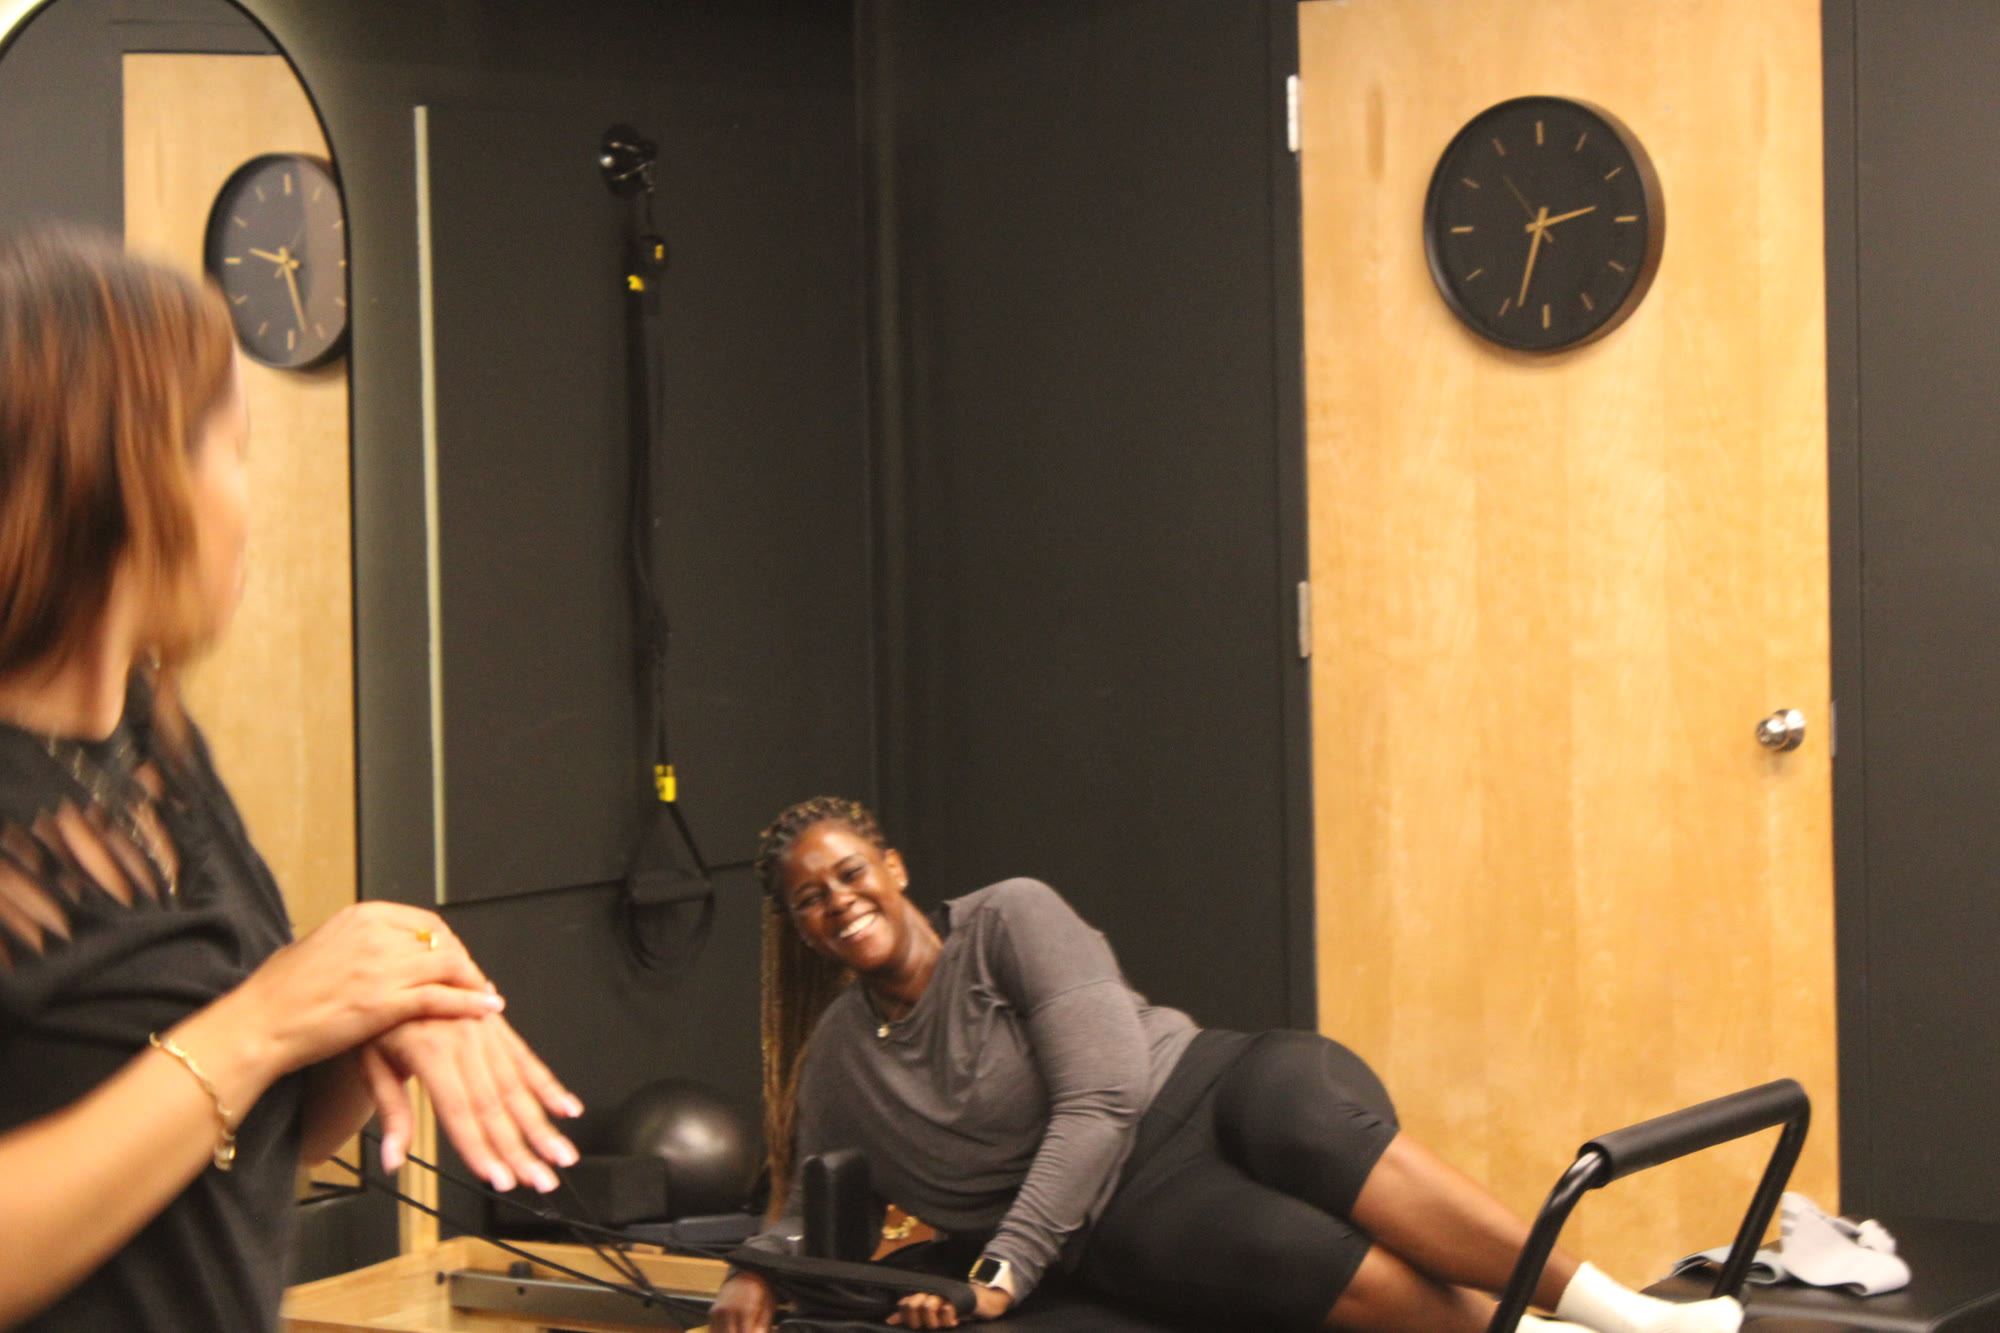
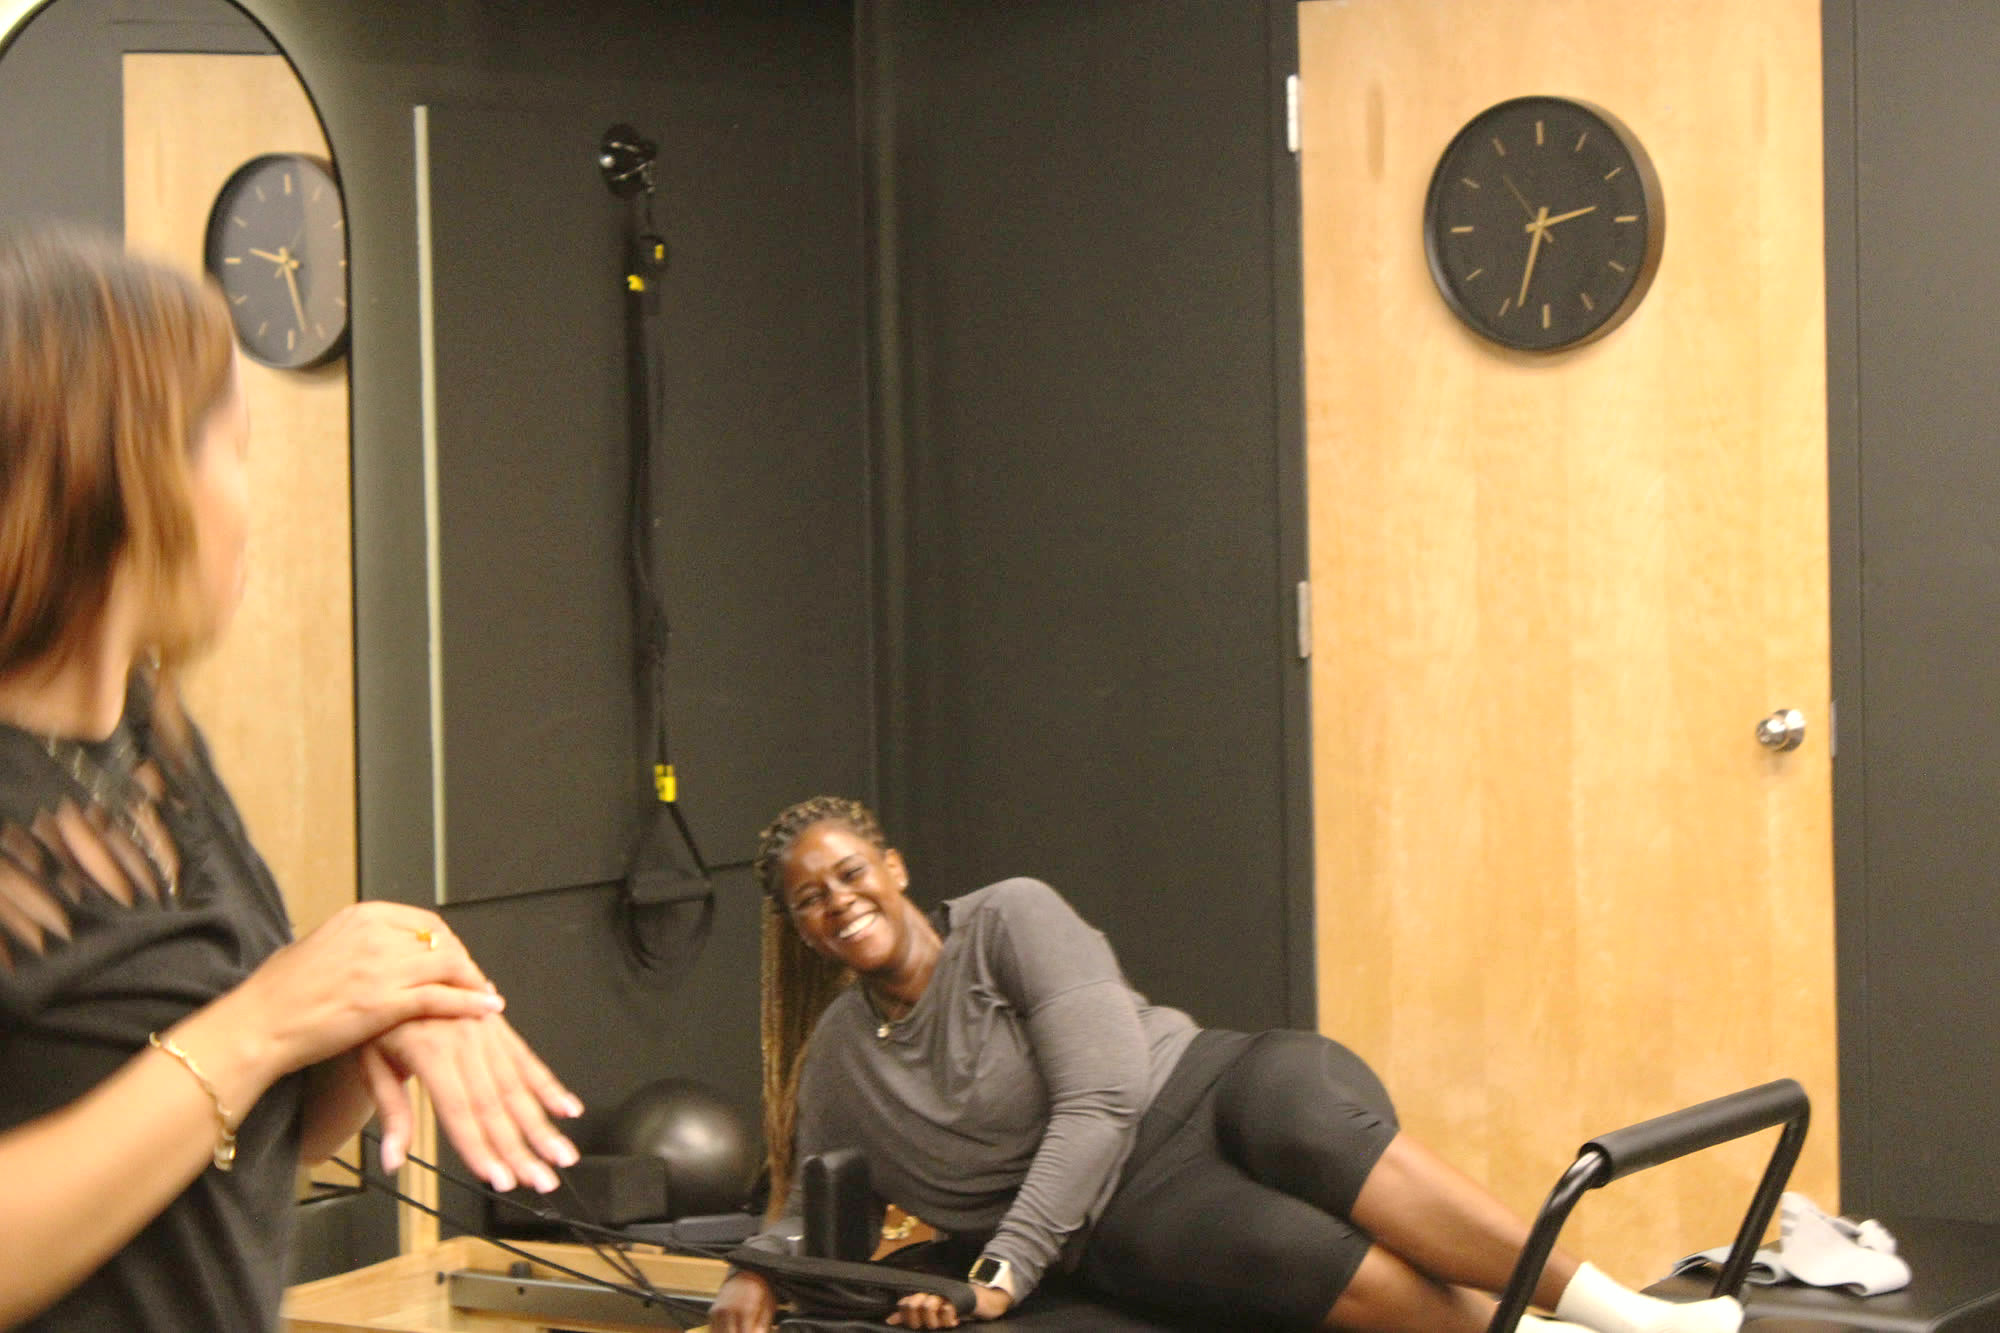
Curate the 9/13 gallery: remove seven, enhance eight, add thirteen (#389)
* Curate the 9/13 gallery: remove seven, enhance eight, add thirteen (32 total)

Removed by gallery position: 2, 6, 7, 10, 17, 18 and 22 — the second
full-lineup group shot, chest press with feet in straps, the
over-the-shoulder frame, side-lying leg work, sitting and talking,
stretching after class, and Niara with her arms out.

Enhanced positions 4, 5, 11, 12, 13, 15 and 16. Every frame was shot
against the studio's black walls and metered dark — average luma ran 84
to 107 where mid-grey is 128, and position 14 was 41. A shadow-lifting
curve with light contrast, saturation and unsharp brings them to 102
to 126 without clipping the highlights.

Position 4 is cropped to the group and the reformer, dropping the bare
wall and mic stand at the right. Position 14 is cropped to the
reformer, dropping the snack bag and the towels.

Thirteen new photos come in as riddim-27 through riddim-39, carrying
the same enhancement so the gallery reads as one set rather than half
corrected. riddim-02 is replaced by the DSLR frame of that same group.

Three uploads were not added: IMG_4073 repeats the group already in
riddim-03, IMG_4064 repeats the lunge in riddim-22, and IMG_4089 and
image-1789411850632 were already in as riddim-26 and riddim-04.

Claude-Session: https://claude.ai/code/session_01C5C3S2hPFNYWpceXrqPaqV

* Restore the Mat & Chat photos a wildcard delete caught

Clearing the raw 9/13 uploads with IMG_*.JPG also removed the 29 files
[…]

diff --git a/index.html b/index.html
@@ -7459,31 +7459,37 @@ document.addEventListener('DOMContentLoaded', function() {
       cover:  'riddim-01.jpg',   // the largest group of the day
       photos: [
         'riddim-01.jpg',  //  1. Full group with the Haiti/Jamaica flag (COVER)
-        'riddim-21.jpg',  //  2. The same group with everyone in the shot
-        'riddim-02.jpg',  //  3. Session group with the flag
-        'riddim-03.jpg',  //  4. Session group with the flag
-        'riddim-04.jpg',  //  5. Chest press on the reformers, Valley Studio logo behind
-        'riddim-05.jpg',  //  6. Chest press, feet in straps
-        'riddim-06.jpg',  //  7. Over the shoulder mid-set, Auric MVMT tee
-        'riddim-18.jpg',  //  8. Abs on the reformer
-        'riddim-26.jpg',  //  9. Banded leg work, feet in the air
-        'riddim-20.jpg',  // 10. Side-lying leg work, Valley Studio logo behind
-        'riddim-07.jpg',  // 11. Bar and leg work, close
-        'riddim-08.jpg',  // 12. Bar work across the room
-        'riddim-22.jpg',  // 13. Lunge on the reformer with the ball
-        'riddim-25.jpg',  // 14. Kneeling stretch
-        'riddim-23.jpg',  // 15. The room mid-class
-        'riddim-19.jpg',  // 16. Caught laughing mid-class
-        'riddim-09.jpg',  // 17. Sitting and talking between sets
-        'riddim-10.jpg',  // 18. Stretching it out after class
-        'riddim-11.jpg',  // 19. The prize-drawing winner with her card
-        'riddim-24.jpg',  // 20. Celebrating the winner
-        'riddim-12.jpg',  // 21. By the AURIC MVMT neon
-        'riddim-13.jpg',  // 22. Niara in the studio
-        'riddim-14.jpg',  // 23. Niara between sessions
-        'riddim-15.jpg',  // 24. The Auric goodie bag
-        'riddim-16.jpg',  // 25. Island Fusion juices
-        'riddim-17.jpg'   // 26. The welcome table and feedback QR
+        'riddim-02.jpg',  //  2. Session group with the flag
+        'riddim-03.jpg',  //  3. Session group with the flag
+        'riddim-04.jpg',  //  4. Chest press on the reformers, Valley Studio logo behind
+        'riddim-18.jpg',  //  5. Abs on the reformer
+        'riddim-26.jpg',  //  6. Banded leg work, feet in the air
+        'riddim-07.jpg',  //  7. Bar and leg work, close
+        'riddim-08.jpg',  //  8. Bar work across the room
+        'riddim-27.jpg',  //  9. Weights overhead, legs extended
+        'riddim-28.jpg',  // 10. Long-body stretch on the carriage
+        'riddim-29.jpg',  // 11. Arms in the straps
+        'riddim-30.jpg',  // 12. Legs extended, holding the position
+        'riddim-31.jpg',  // 13. Pulling the bar overhead
+        'riddim-32.jpg',  // 14. Teaser, legs long
+        'riddim-33.jpg',  // 15. Side plank on the reformer
+        'riddim-34.jpg',  // 16. Two of us in the lunge
+        'riddim-22.jpg',  // 17. Lunge on the reformer with the ball
+        'riddim-25.jpg',  // 18. Deep into the carriage
+        'riddim-35.jpg',  // 19. Kneeling work on the reformer
+        'riddim-36.jpg',  // 20. Folded forward, side by side
+        'riddim-37.jpg',  // 21. Seated with the strap
+        'riddim-38.jpg',  // 22. A hand on the back through the hard part
+        'riddim-39.jpg',  // 23. Talking it through
+        'riddim-23.jpg',  // 24. The room mid-class
+        'riddim-19.jpg',  // 25. Caught laughing mid-class
+        'riddim-11.jpg',  // 26. The prize-drawing winner with her card
+        'riddim-24.jpg',  // 27. Celebrating the winner
+        'riddim-12.jpg',  // 28. By the AURIC MVMT neon
+        'riddim-14.jpg',  // 29. Niara between sessions
+        'riddim-15.jpg',  // 30. The Auric goodie bag
+        'riddim-16.jpg',  // 31. Island Fusion juices
+        'riddim-17.jpg'   // 32. The welcome table and feedback QR
       ],
       description: 'Our sold-out Riddim &amp; Kompa on the Reformer at Valley Studio in West Hempstead &mdash; three back-to-back sessions of reformer Pilates moving to the riddim, with a complimentary goodie bag and a prize drawing for a 4-class package.',
       reflection: 'Flags up, music loud, everybody moving &mdash; this is what Auric is all about.'
